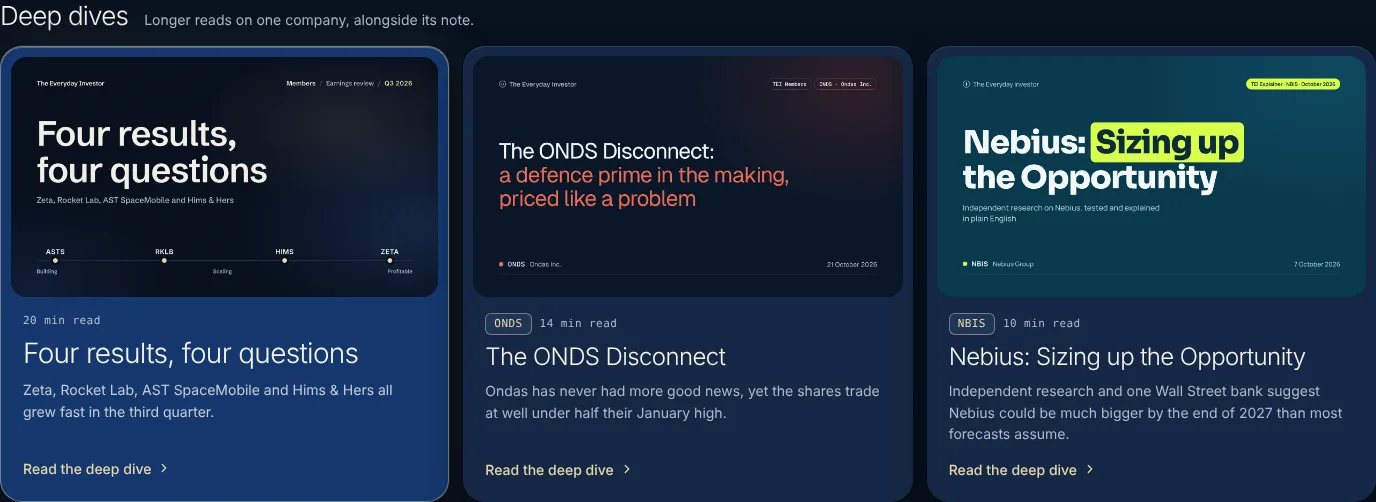
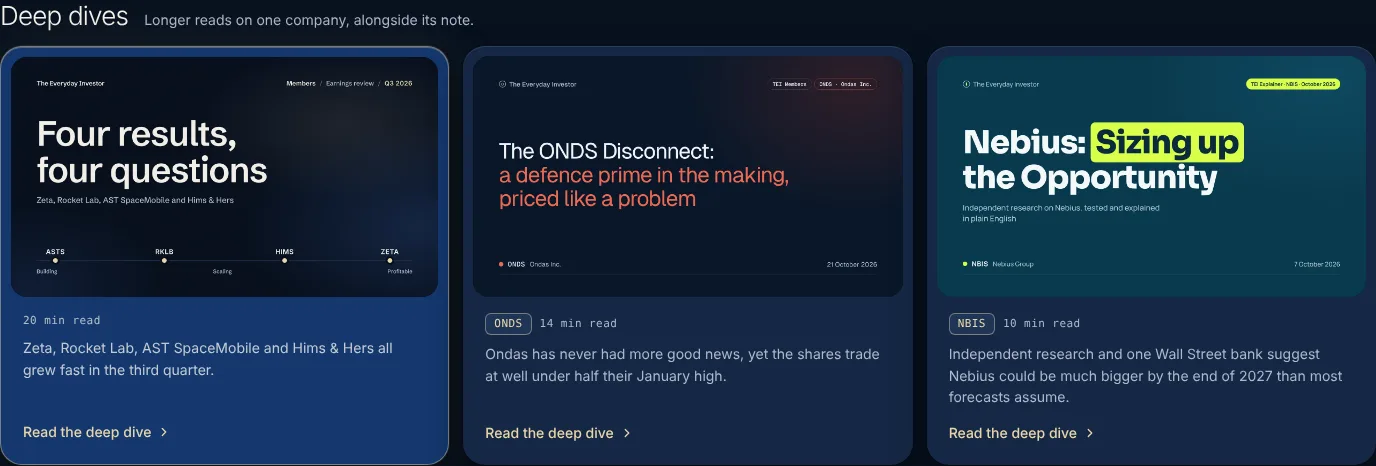
Members' cards: no repeated title when the thumbnail carries it
On Research (from 861px) and the Hub home lead card, a card that leads with
its thumbnail drops the visible title: the image already shows it. The title
stays for screen readers. Phones keep the visible title, as the thumbnail is
too small to read there.

Claude-Session: https://claude.ai/code/session_015wx5SxowQuan8qdD1pHjFh

diff --git a/hub/index.html b/hub/index.html
@@ -130,6 +130,7 @@ a:focus-visible, button:focus-visible, input:focus-visible { outline:2px solid v
 :root[data-theme="light"] .cover { box-shadow:var(--w-shadow-2); }
 .art-head .cover { flex:1 1 300px; min-height:220px; }
 .cover-img { background:#070F1D; }
+.t-sr { position:absolute !important; width:1px; height:1px; margin:-1px; padding:0; overflow:hidden; clip:rect(0 0 0 0); white-space:nowrap; border:0; }
 .cover-img img { position:absolute; inset:0; width:100%; height:100%; object-fit:cover; object-position:center; }
 .cover-video { background:#14376E; background-size:cover; background-position:center; }
 .cover-video .vglow { position:absolute; inset:0; background:radial-gradient(closest-side, rgba(232,214,168,0.22), rgba(232,214,168,0)); }
@@ -675,7 +676,8 @@ a:focus-visible, button:focus-visible, input:focus-visible { outline:2px solid v
       : esc(head.readTime) + ' min read' + (isRecent(head) ? ' · New' : '');
     html += '<a class="art-head press" href="' + esc(artHref(head)) + '">' + cover(head, 'large', false) +
       '<span class="art-text"><span class="art-meta"><span class="pill">' + (video ? 'Video · Members only' : esc(head.category)) + '</span><span class="m">' + meta + '</span></span>' +
-      '<span class="art-title">' + esc(head.short || head.title) + '</span><span class="art-teaser">' + esc(head.teaser) + '</span>' +
+      // With a thumbnail the title is already in the image: kept for screen readers only.
+      '<span class="art-title' + (head.images && head.images.card ? ' t-sr' : '') + '">' + esc(head.short || head.title) + '</span><span class="art-teaser">' + esc(head.teaser) + '</span>' +
       '<span class="art-cta">' + (video ? 'Watch now' : 'Read the article') + IC.chev + '</span></span></a>';
     var more = list.slice(1, 3);
     if (more.length) {

diff --git a/hub/suite/suite.js b/hub/suite/suite.js
@@ -199,7 +199,9 @@
     return '<a class="dd-c press ' + (lead ? 'lead' : 'side') + '" href="' + deepUrl(a) + '">' +
       '<span class="dd-cov' + (img ? ' is-img' : '') + '" aria-hidden="true">' + fig + '</span>' +
       '<span class="dd-txt"><span class="dd-k">' + (a.ticker ? '<span class="dd-tag">' + esc(a.ticker) + '</span>' : '') + esc(a.readTime ? a.readTime + ' min read' : a.category) + '</span>' +
-      '<span class="dd-h">' + esc(a.short || a.title) + '</span>' +
+      // With a thumbnail the title is already in the image, so from 861px it is
+      // kept for screen readers only. Phones keep it: the image is too small to read.
+      '<span class="dd-h' + (img ? ' t-sr-d' : '') + '">' + esc(a.short || a.title) + '</span>' +
       '<span class="dd-s">' + esc(firstLine(a.teaser)) + '</span>' +
       '<span class="dd-go">' + (phone ? 'Read' : 'Read the deep dive') + CHEV + '</span></span></a>';
   }

diff --git a/hub/suite/index.html b/hub/suite/index.html
@@ -41,6 +41,7 @@
 .dd-cov { position:relative; display:block; height:clamp(190px, 15vw, 240px); margin:10px 10px 0; border-radius:16px; overflow:hidden; background:var(--w-powder); }
 .dd-cov.is-img { background:#070F1D; height:auto; aspect-ratio:16 / 9; }
 .dd-g.is-trio > .dd-c { grid-column:span 4; }
+@media (min-width:861px) { .t-sr-d { position:absolute !important; width:1px; height:1px; margin:-1px; padding:0; overflow:hidden; clip:rect(0 0 0 0); white-space:nowrap; border:0; } }
 .dd-cov.is-img img { position:absolute; inset:0; width:100%; height:100%; object-fit:cover; object-position:center; }
 .dd-txt { display:flex; flex-direction:column; gap:8px; flex:1; padding:16px 22px 22px; }
 .dd-k { display:flex; flex-wrap:wrap; gap:8px; align-items:center; font-family:'Geist Mono', monospace; font-size:11px; letter-spacing:.04em; color:var(--w-muted); }
